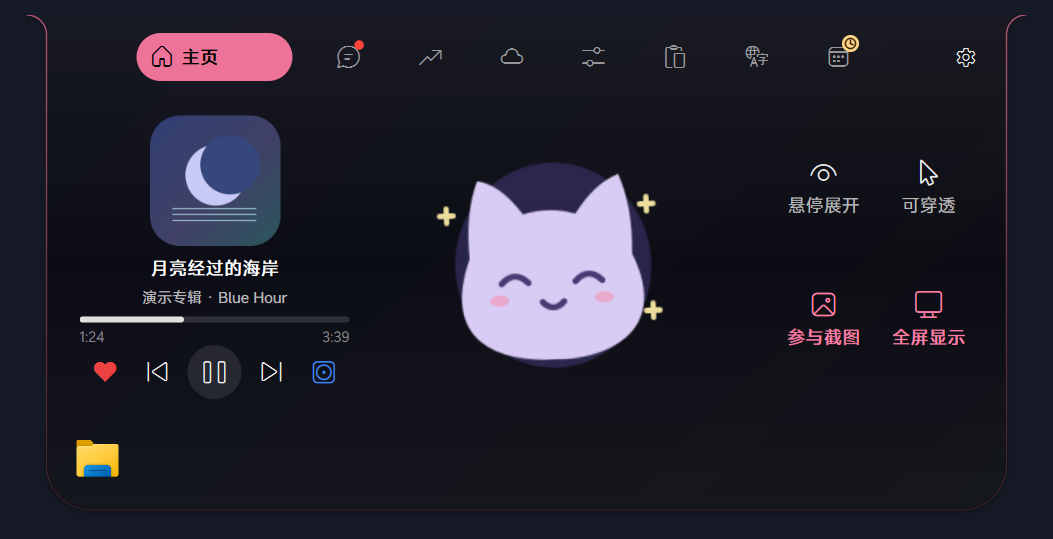
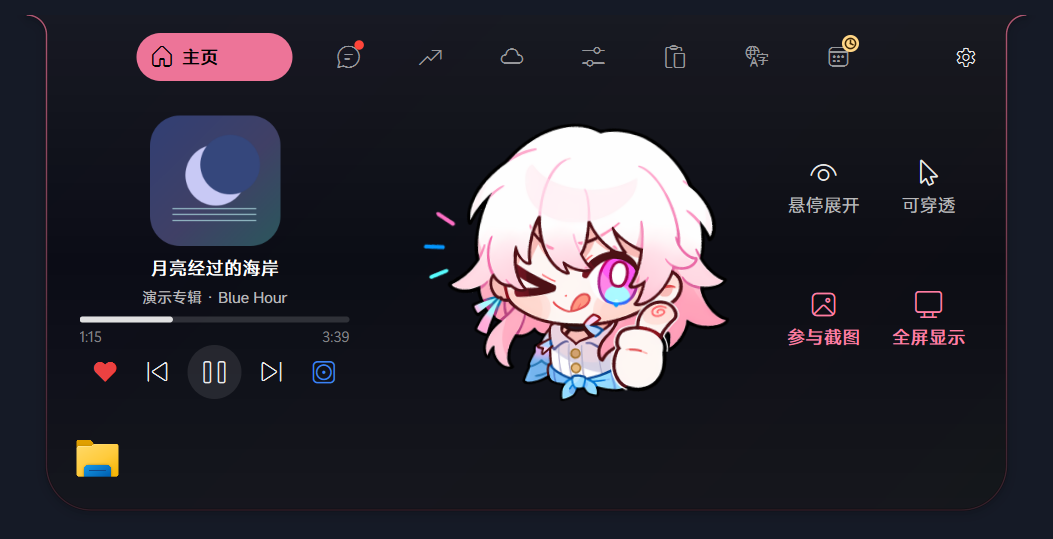
docs: show March 7th stickers in README screenshots

Changed region(s): [[0.3951, 0.2375, 0.699, 0.7421]]

diff --git a/README.md b/README.md
@@ -12,7 +12,7 @@
   <img alt="License MIT" src="https://img.shields.io/badge/License-MIT-green">
 </p>
 
-<p align="center"><img src="screenshots/home.png" width="900" alt="Wisland 主页"></p>
+<p align="center"><img src="screenshots/home.png" width="900" alt="Wisland 主页与三月七贴纸"></p>
 
 > 本仓库基于 [AsamiAkito/wisland](https://github.com/AsamiAkito/wisland) 进行深度二次开发，在保留液态形变、毛玻璃与边缘吸附手感的同时，对交互体验、网易云集成、控制中心、安装启动与性能开销做了全面改造。
 
@@ -68,7 +68,7 @@
 
 ## 效果图
 
-截图来自当前版本，内容为演示数据。主页见上方。
+截图来自实际界面，使用演示数据。主页、贴纸收起态和主题预览使用三月七官方表情包。[素材来源 · 米游社](https://www.miyoushe.com/sr/article/60702394)
 
 <p align="center"><img src="screenshots/game-calendar.png" width="900" alt="活动日历、临期角标和今日日常摘要"></p>
 
@@ -95,7 +95,7 @@
 
 <p align="center">
   <img src="screenshots/compact-clock.png" height="58" alt="时钟收起态">
-  <img src="screenshots/compact-pet.png" height="58" alt="贴纸收起态">
+  <img src="screenshots/compact-pet.png" height="58" alt="三月七贴纸收起态">
   <img src="screenshots/compact-music.png" height="58" alt="音乐收起态">
 </p>
 
@@ -192,7 +192,7 @@ cd wisland
 march7stickers/
 ```
 
-仓库只保留目录说明，不附带三月七或其他第三方角色贴纸图片；演示与自用所涉三月七贴纸素材来源：[三月七官方高清透明表情包-崩坏：星穹铁道社区-米游社](https://www.miyoushe.com/sr/article/60702394)（请自行获取并放入目录中）。
+`march7stickers/` 默认只有目录说明。想用截图中的三月七贴纸，可以从米游社获取原图并放入该目录。[三月七官方高清透明表情包](https://www.miyoushe.com/sr/article/60702394)
 
 支持：
 
@@ -504,4 +504,4 @@ run.bat /d
 
 程序代码采用 [MIT License](LICENSE)。
 
-仓库不附带三月七或其他第三方角色贴纸图片。如需使用三月七贴纸，可参考 [三月七官方高清透明表情包-崩坏：星穹铁道社区-米游社](https://www.miyoushe.com/sr/article/60702394)。用户自行添加的图片不因程序代码采用 MIT License 而自动获得 MIT 授权，请确保素材拥有合法使用与分发许可。
+演示截图中的三月七贴纸和用户自行添加的图片适用各自的素材许可。
